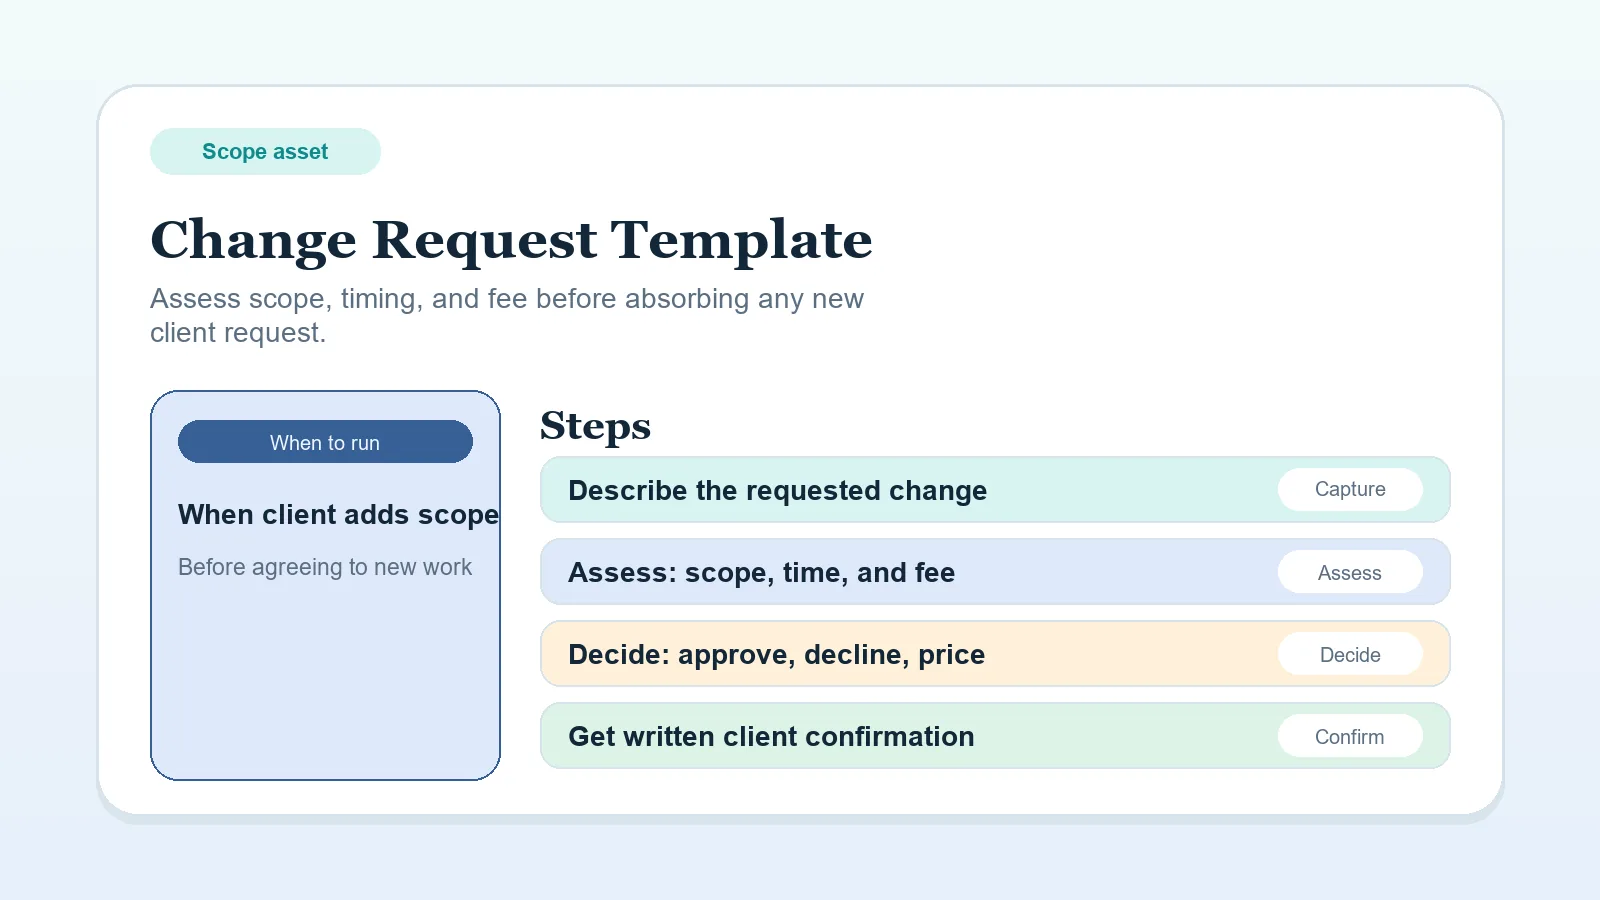
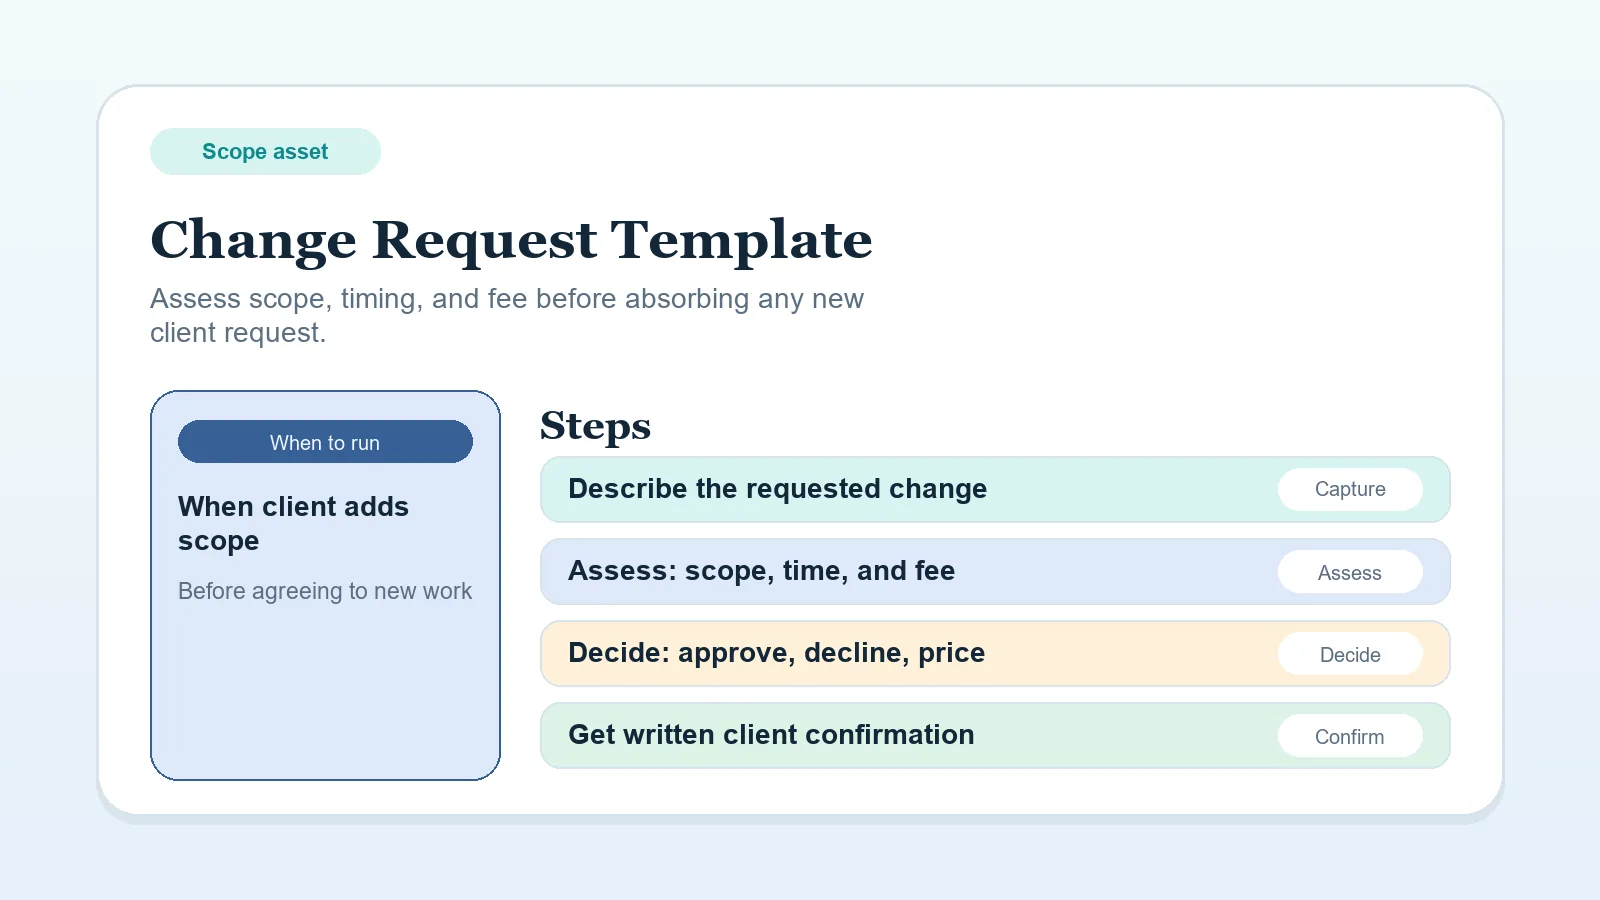
Fix checklist_card trigger-label text overflow and regenerate all 15 template images
8 of 15 trigger labels exceeded the 294px trigger box width (measured 322-367px
at 28pt Arial Bold). Root cause: draw.text calls with no width constraint in
checklist_card.py. Fixed by switching both trigger label and step label draws
to draw_text_block with max_lines and width bounds; trigger note position moved
from y=554 to y=578 to accommodate 2-line label wrapping.

diff --git a/tools/feature-images/feature_images/templates/checklist_card.py b/tools/feature-images/feature_images/templates/checklist_card.py
@@ -14,8 +14,8 @@ def render_checklist_card(spec, context):
     trigger_box = (150, 390, 500, 780)
     helpers["rounded_box"](draw, trigger_box, fill=palette["secondary_soft"], outline=palette["secondary"], width=2, radius=28)
     helpers["pill"](draw, (178, 420, 472, 462), palette["secondary"], "When to run", fonts["small"], "#eef6ff")
-    draw.text((178, 498), spec["trigger"]["label"], font=fonts["card_title"], fill=palette["ink"])
-    helpers["draw_text_block"](draw, spec["trigger"]["note"], fonts["card_body"], palette["muted"], (178, 554, 298, 72), 6, report, "checklist trigger note", max_lines=3)
+    helpers["draw_text_block"](draw, spec["trigger"]["label"], fonts["card_title"], palette["ink"], (178, 490, 294, 80), 8, report, "checklist trigger label", max_lines=2)
+    helpers["draw_text_block"](draw, spec["trigger"]["note"], fonts["card_body"], palette["muted"], (178, 578, 298, 80), 6, report, "checklist trigger note", max_lines=3)
 
     # Right steps area — 4 task rows
     draw.text((540, 402), "Steps", font=fonts["panel_title"], fill=palette["ink"])
@@ -25,5 +25,5 @@ def render_checklist_card(spec, context):
         y = 456 + (index * 82)
         row_box = (540, y, 1450, y + 66)
         helpers["rounded_box"](draw, row_box, fill=row_fills[index % 4], outline=palette["stroke"], width=2, radius=20)
-        draw.text((568, y + 18), step["label"], font=fonts["card_title"], fill=palette["ink"])
+        helpers["draw_text_block"](draw, step["label"], fonts["card_title"], palette["ink"], (568, y + 16, 680, 50), 6, report, f"checklist step {index}", max_lines=1)
         helpers["pill"](draw, (1278, y + 12, 1422, y + 54), palette["frame"], step["tag"], fonts["small"], palette["muted"])

diff --git a/TRACKER.md b/TRACKER.md
@@ -10,7 +10,7 @@ Read this after `AGENT.md`. This is the live project tracker for current state, 
 - Priority cluster posture: the workflow cluster remains the strongest first operational path; blueprint and comparison clusters stay downstream of workflow diagnosis.
 - Content structure status: homepage, hubs, cornerstone pages, and support gating have already received multiple tightening passes; support pages should stay subordinate to workflow, blueprint, and comparison pages.
 - Strongest current clusters: client workflow systems, software stack blueprints, workflow comparisons.
-- Current feature-image status: 41 WebPs active across 6 categories (hubs, blueprints, comparisons, templates, glossary, faq); SVG fallbacks remain only for workflow stage pages; Python/Pillow workflow expanded with 3 new templates (`checklist_card`, `concept_map`, `faq_card`) and 15 total data configs in the templates category; the original 4 approved hero WebPs are untouched; all 15 templates/checklists pages now use topic-specific WebP images.
+- Current feature-image status: 41 WebPs active across 6 categories (hubs, blueprints, comparisons, templates, glossary, faq); SVG fallbacks remain only for workflow stage pages; Python/Pillow workflow expanded with 3 new templates (`checklist_card`, `concept_map`, `faq_card`) and 15 total data configs in the templates category; the original 4 approved hero WebPs are untouched; all 15 templates/checklists pages now use topic-specific WebP images; `checklist_card` trigger-label text wrapping fixed — 8 of 15 trigger labels overflowed the 294px trigger box; all 15 images regenerated with fix applied.
 - Current build/deploy status: Cloudflare Pages builds from source, and `public/` is generated output that should remain ignored and untracked.
 - Current repo workflow: read `AGENT.md`, read `TRACKER.md`, make a scoped change, update `TRACKER.md`, then commit and push if successful.
 - Current operating rhythm: Claude Code is the daily content/improvement tool; Codex is the default weekly review/fix tool and the monthly deeper audit tool; daily Codex use is reserved for heavy build weeks or pre-AdSense submission.
@@ -64,6 +64,8 @@ Priority URLs to monitor:
 - For docs-only passes like this tracker cleanup, a Hugo build is not required unless a non-doc source file changes by accident.
 
 ## Recent completed passes
+
+- 2026-04-22 checklist_card text-wrap fix: fixed trigger-label text overflow in `tools/feature-images/feature_images/templates/checklist_card.py`; root cause was two `draw.text` calls with no width constraint — the trigger label (`draw.text` at y=498) had only 294px horizontal space inside the trigger box, but 8 of 15 labels exceeded that width (measured: 322–367px); step labels (`draw.text` at y+18) had 710px but also used unconstrained drawing; fix: replaced both `draw.text` calls with `draw_text_block` (existing wrapping helper); trigger label now uses `max_lines=2`, `width=294`, start moved to `y=490`; trigger note moved down to `y=578` (from y=554) to accommodate 2-line label; step label uses `draw_text_block` with `width=680`, `max_lines=1` as a width safety guard; regenerated all 15 template WebPs; Hugo build clean at 77 pages, 99 static files; QA confirmed correct `.webp` OG and Twitter image references for `approval-feedback-routing-worksheet` and `escalation-pause-state-worksheet`; `public/` remains ignored and untracked.
 
 - 2026-04-22 templates/checklists feature image pass: generated 11 new topic-specific WebP images to replace generic SVG placeholders across all remaining templates/checklists pages; root cause was a shared SVG template that produced the same composition for every page (same layout: left bar column + right dark panel with 4 boxes), with only text labels varying — not sufficiently topic-specific; fixed by creating 11 JSON data configs in `tools/feature-images/feature_images/data/templates/` using the `checklist_card` layout, each with distinct eyebrow, title, subtitle, trigger, and 4 step rows that match the actual page topic; palettes: `workflow` for 10 client-workflow templates, `blueprint` for system-of-record-rules (stack ownership topic); generated WebPs: `approval-feedback-routing-worksheet`, `client-change-request-template`, `client-input-dependency-worksheet`, `client-offboarding-template`, `delivery-qa-checklist`, `escalation-pause-state-worksheet`, `project-start-readiness-handoff-boundary-worksheet`, `recovery-update-revised-plan-notice-template`, `scope-reset-recovery-worksheet`, `system-of-record-rules-worksheet`, `weekly-client-status-update-template`; updated front matter on all 11 content files from `.svg` to `.webp`; the 4 previously completed template WebPs (client-onboarding-checklist, invoice-payment-checklist, stack-audit-consolidation-worksheet, weekly-client-operations) were not touched; Hugo build clean at 77 pages with 99 static files (up from 88 — 11 new WebPs); QA confirmed correct `.webp` OG and Twitter image references in rendered output for `delivery-qa-checklist-before-client-handoff` and `escalation-and-pause-state-worksheet-for-solo-operators`; `public/` remains ignored and untracked.
 
